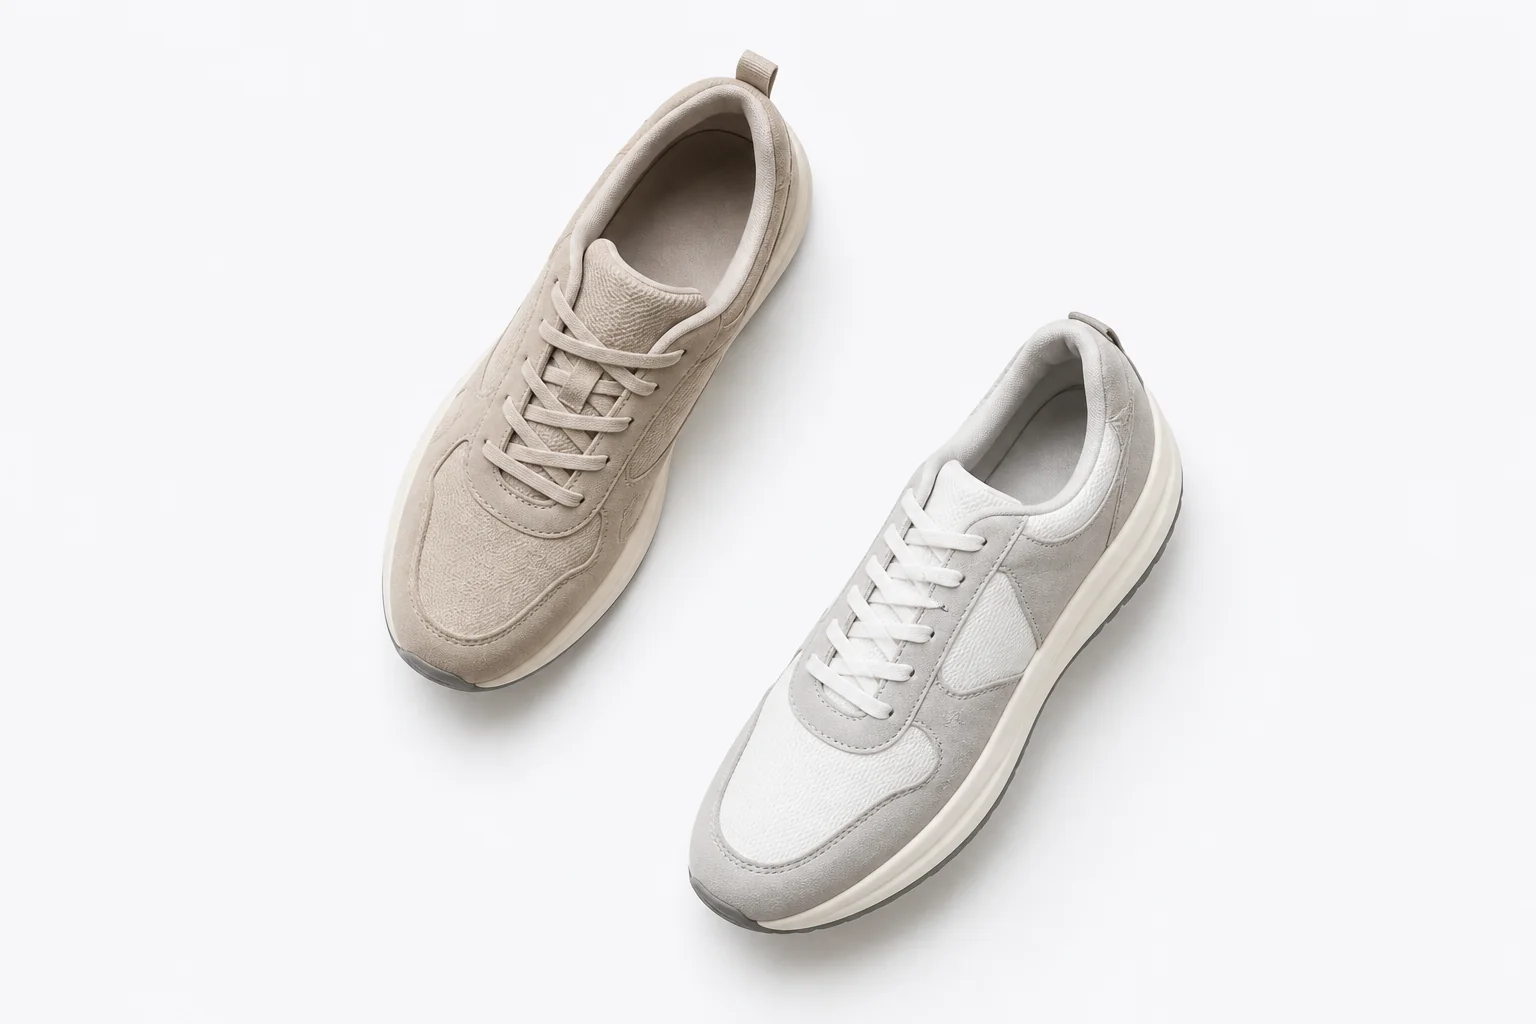
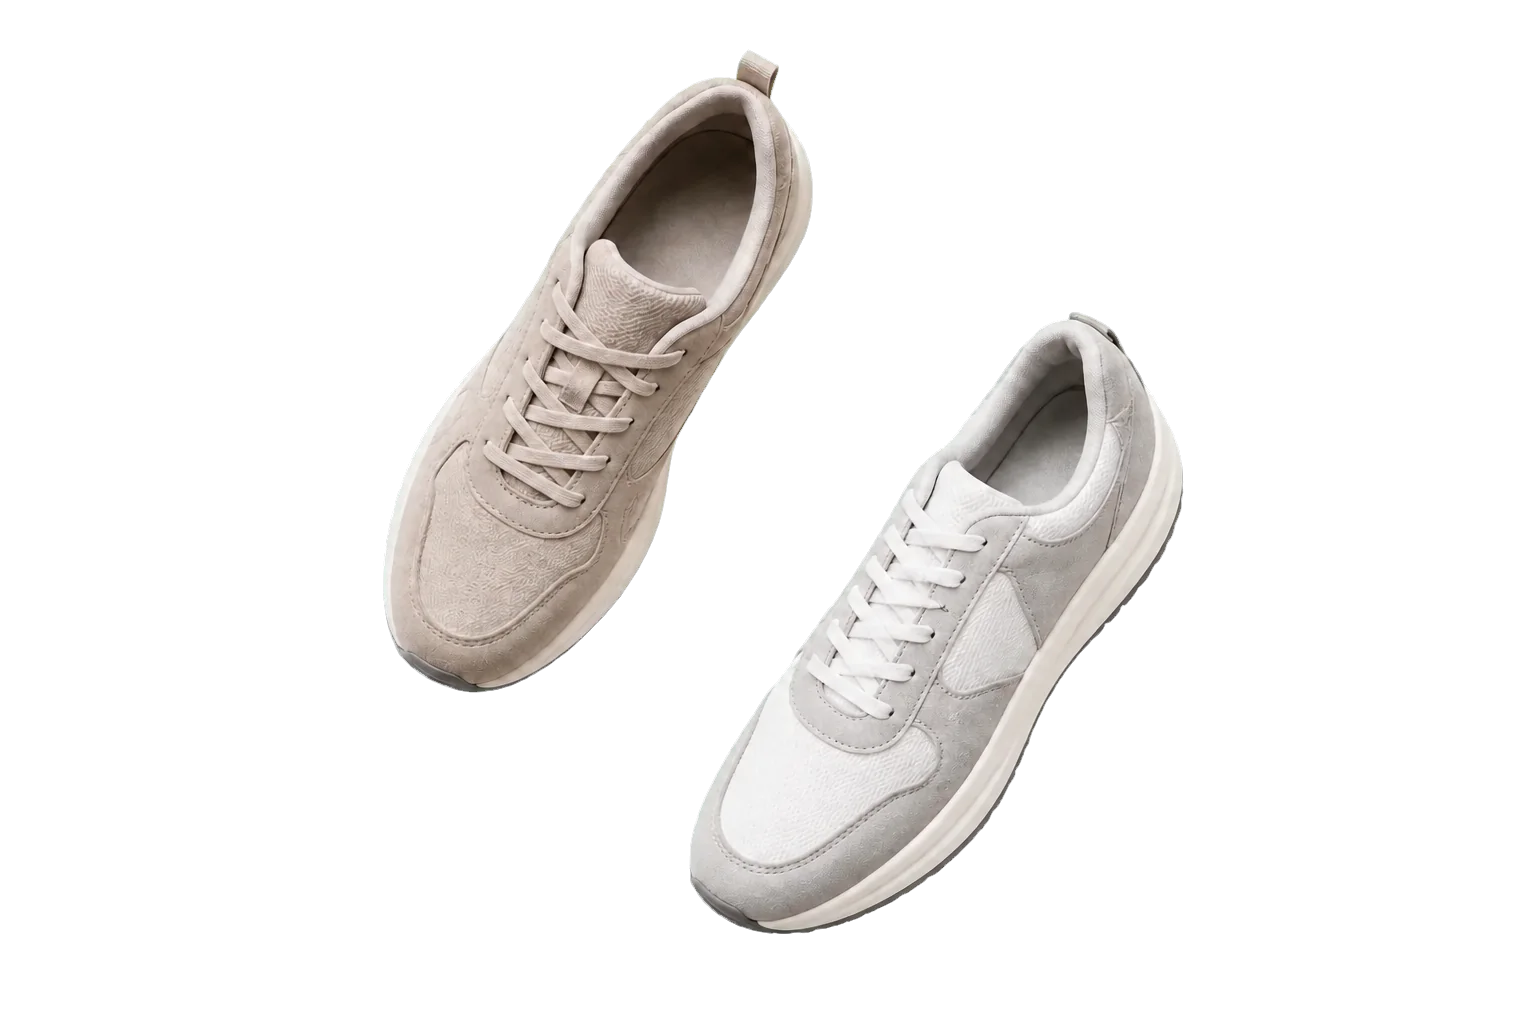
refine homepage image and wheel snapping

Changed region(s): [[0.25, 0.1562, 0.5312, 0.75], [0.4375, 0.4688, 0.7812, 1.0], [0.5938, 0.6562, 0.625, 0.6875]]

diff --git a/frontend/app/pages/index.vue b/frontend/app/pages/index.vue
@@ -7,6 +7,11 @@ const localePath = useLocalePath()
 const router = useRouter()
 const search = ref('')
 const popularSearches = ['New Balance 530', 'Adidas Samba', 'Nike Air Force 1']
+const HOME_SCROLL_DURATION_MS = 500
+
+let scrollAnimationFrame = null
+let wheelScrollActive = false
+let reducedMotionQuery = null
 
 useHead({
   htmlAttrs: {
@@ -32,6 +37,91 @@ function searchCatalogue() {
         }
   )
 }
+
+function stopWheelScroll() {
+  if (scrollAnimationFrame !== null) {
+    cancelAnimationFrame(scrollAnimationFrame)
+    scrollAnimationFrame = null
+  }
+
+  wheelScrollActive = false
+  document.documentElement.classList.remove('home-scroll-animating')
+}
+
+function animateToPanel(destination) {
+  const start = window.scrollY
+  const distance = destination - start
+
+  if (Math.abs(distance) < 1) return
+
+  const startedAt = performance.now()
+  wheelScrollActive = true
+  document.documentElement.classList.add('home-scroll-animating')
+
+  function moveFrame(now) {
+    const progress = Math.min((now - startedAt) / HOME_SCROLL_DURATION_MS, 1)
+    const easedProgress = (1 - Math.cos(Math.PI * progress)) / 2
+
+    window.scrollTo(0, start + distance * easedProgress)
+
+    if (progress < 1) {
+      scrollAnimationFrame = requestAnimationFrame(moveFrame)
+      return
+    }
+
+    scrollAnimationFrame = null
+    wheelScrollActive = false
+    document.documentElement.classList.remove('home-scroll-animating')
+  }
+
+  scrollAnimationFrame = requestAnimationFrame(moveFrame)
+}
+
+function handleHomeWheel(event) {
+  if (
+    event.ctrlKey ||
+    event.deltaY === 0 ||
+    Math.abs(event.deltaX) > Math.abs(event.deltaY) ||
+    reducedMotionQuery?.matches
+  ) {
+    return
+  }
+
+  if (wheelScrollActive) {
+    event.preventDefault()
+    return
+  }
+
+  const headerHeight = document.querySelector('.site-header')?.offsetHeight ?? 0
+  const currentPosition = window.scrollY
+  const direction = Math.sign(event.deltaY)
+  const tolerance = 16
+  const panelPositions = Array.from(document.querySelectorAll('.home-panel')).map(
+    (panel) => panel.getBoundingClientRect().top + currentPosition - headerHeight
+  )
+  const destination =
+    direction > 0
+      ? panelPositions.find((position) => position > currentPosition + tolerance)
+      : panelPositions
+          .slice()
+          .reverse()
+          .find((position) => position < currentPosition - tolerance)
+
+  if (destination === undefined) return
+
+  event.preventDefault()
+  animateToPanel(Math.max(0, destination))
+}
+
+onMounted(() => {
+  reducedMotionQuery = window.matchMedia('(prefers-reduced-motion: reduce)')
+  window.addEventListener('wheel', handleHomeWheel, { passive: false })
+})
+
+onBeforeUnmount(() => {
+  window.removeEventListener('wheel', handleHomeWheel)
+  stopWheelScroll()
+})
 
 usePublicSeo({
   title: computed(() => t('meta.homeTitle')),

diff --git a/frontend/tests/homepage.test.js b/frontend/tests/homepage.test.js
@@ -13,6 +13,9 @@ const english = JSON.parse(
 const comparisonImage = await stat(
   new URL('../public/images/home-comparison-shoes.webp', import.meta.url)
 )
+const comparisonImageContents = await readFile(
+  new URL('../public/images/home-comparison-shoes.webp', import.meta.url)
+)
 
 test('homepage offers a localized snap-scroll route to the catalogue', () => {
   assert.match(homepage, /class: 'home-scroll-snap'/)
@@ -28,6 +31,18 @@ test('homepage uses an optimized responsive comparison image', () => {
   assert.match(homepage, /home-about-media-desktop/)
   assert.ok(comparisonImage.size > 10_000)
   assert.ok(comparisonImage.size < 100_000)
+  assert.ok(comparisonImageContents.includes(Buffer.from('ALPH')))
+})
+
+test('homepage slows wheel navigation between snap panels', () => {
+  assert.match(homepage, /HOME_SCROLL_DURATION_MS = 500/)
+  assert.match(homepage, /addEventListener\('wheel', handleHomeWheel, \{ passive: false \}\)/)
+  assert.match(homepage, /event\.preventDefault\(\)/)
+  assert.match(
+    stylesheet,
+    /html\.home-scroll-snap\.home-scroll-animating\s*{[^}]*scroll-snap-type:\s*none;/s
+  )
+  assert.match(stylesheet, /scroll-snap-stop:\s*normal;/)
 })
 
 test('homepage scroll snapping respects reduced-motion preferences', () => {

diff --git a/frontend/app/assets/css/main.css b/frontend/app/assets/css/main.css
@@ -428,6 +428,10 @@
     scroll-snap-type: y mandatory;
   }
 
+  html.home-scroll-snap.home-scroll-animating {
+    scroll-snap-type: none;
+  }
+
   .home-scroll-snap .site-footer {
     margin-top: 0;
     scroll-snap-align: end;
@@ -440,7 +444,7 @@
   .home-panel {
     min-height: calc(100svh - 4.25rem);
     scroll-snap-align: start;
-    scroll-snap-stop: always;
+    scroll-snap-stop: normal;
   }
 
   .home-hero {
@@ -556,8 +560,9 @@
   }
 
   .home-about-image {
-    @apply block h-full w-full object-cover;
+    @apply block h-full w-full object-contain;
 
+    filter: drop-shadow(0 0.75rem 0.9rem rgb(31 41 55 / 12%));
     object-position: center;
   }
 
